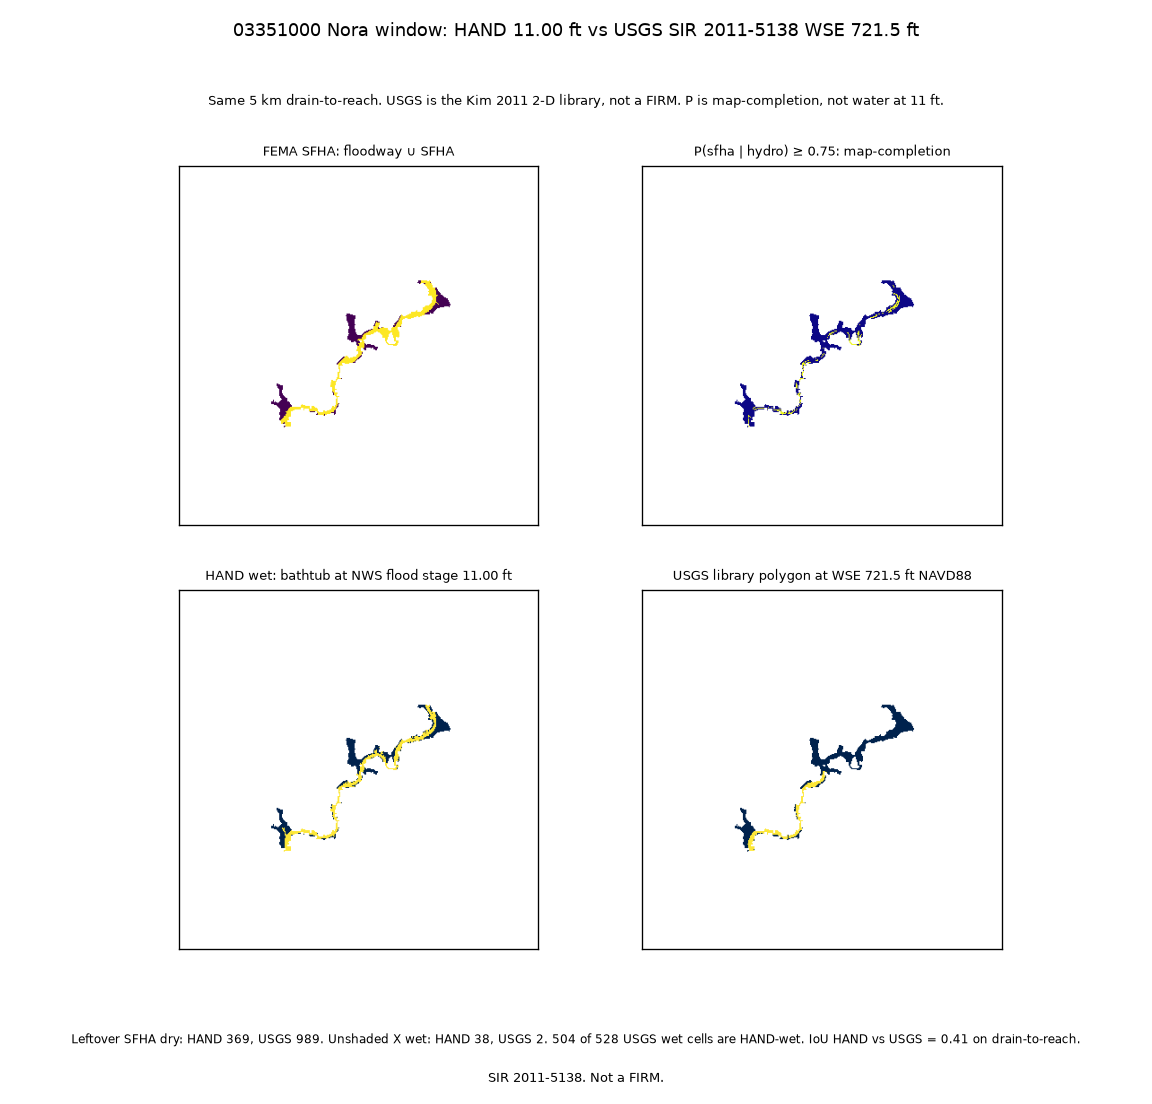
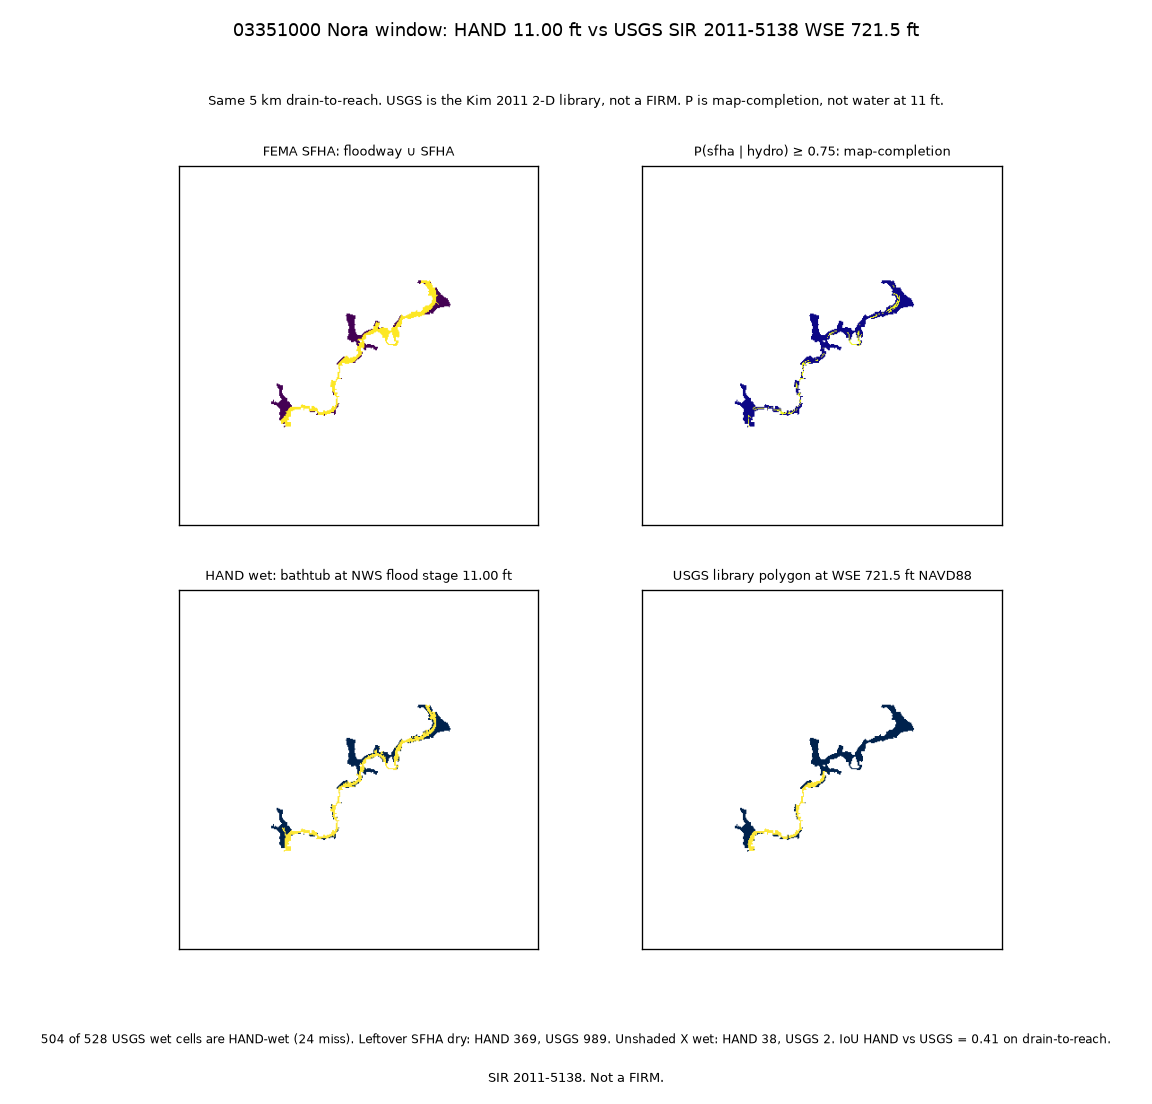
Lead with containment, not IoU.
504/528 flood (24 miss) and 618/619 crest (1 miss) are the neighborhood. IoU 0.41/0.33 stays in that same paragraph as the HAND superset and upstream-window reason.

Changed region(s): [[0.0312, 0.9239, 0.9688, 0.9547]]

diff --git a/src/fimcompare/compare.py b/src/fimcompare/compare.py
@@ -76,14 +76,15 @@ def overlap_table(
 
 
 def leftover_sentence(table: dict) -> str:
-    """Leftover SFHA, extra unshaded X, and USGS-in-HAND containment."""
+    """Containment first, then leftover SFHA / extra X, then IoU."""
     usgs_n = int(table["n_usgs_wet"])
     both = int(table["n_hand_and_usgs"])
+    miss = usgs_n - both
     return (
+        f"{both} of {usgs_n} USGS wet cells are HAND-wet ({miss} miss). "
         f"Leftover SFHA dry: HAND {int(table['n_sfha_dry_hand'])}, "
         f"USGS {int(table['n_sfha_dry_usgs'])}. "
         f"Unshaded X wet: HAND {int(table['n_hand_unshaded_x'])}, "
         f"USGS {int(table['n_usgs_unshaded_x'])}. "
-        f"{both} of {usgs_n} USGS wet cells are HAND-wet. "
         f"IoU HAND vs USGS = {float(table['iou_hand_usgs']):.2f} on drain-to-reach."
     )

diff --git a/tests/test_readme.py b/tests/test_readme.py
@@ -14,9 +14,14 @@ def test_readme_lead_and_claims() -> None:
     assert "21.18" in text
     assert "721.5" in text
     assert "731.5" in text
+    assert "504 of 528" in text
+    assert "618 of 619" in text
+    assert "24 miss" in text or "24 of 528" in text
+    assert text.find("504 of 528") < text.find("0.41")
     assert "indiana_flood_completion" in text
     assert "white_river_stage_inundation" in text
     assert "gitignored" in text
     assert scan_text(text) == []
     assert "—" not in text
     assert "What it is not" not in text
+    assert "covers the library" not in text.lower()

diff --git a/tests/test_compare.py b/tests/test_compare.py
@@ -25,9 +25,10 @@ def test_overlap_counts_and_refuses_huc_wide() -> None:
     assert int(t["n_usgs_wet"]) > 0
     assert int(t["n_hand_and_usgs"]) > 0
     s = leftover_sentence(t)
-    assert "Leftover SFHA" in s
-    assert "Unshaded X" in s
     assert "USGS wet cells are HAND-wet" in s
+    assert "miss" in s
+    assert s.index("USGS wet cells are HAND-wet") < s.index("Leftover SFHA")
+    assert "Unshaded X" in s
     assert "drain-to-reach" in s
     with pytest.raises(GateError):
         overlap_table(

diff --git a/README.md b/README.md
@@ -1,23 +1,26 @@
 # White River FIM compare (Nora)
 
-This tree puts four layers on the same 5 km White River window at USGS **03351000** / NWS **NORI3** (Nora, IN). FEMA SFHA and calibrated `P(sfha | hydro) ≥ 0.75` come from the map-completion sibling. HAND wet masks at **11.00 ft** and **21.18 ft** come from the Nora stage tree. The USGS layer is the Kim 2011 2-D library (SIR **2011-5138**), served as NWS partner FIM polygons at WSE **721.5 ft** and **731.5 ft** NAVD88, the published surfaces nearest those HAND stages.
+At flood stage, **504 of 528** USGS library-wet cells on this window are already HAND-wet (**24 miss**). At the 21.18 ft crest, **618 of 619** (**1 miss**). That is the same neighborhood. IoU 0.41 / 0.33 is what you get when HAND is a superset and the Nora window still includes upstream cells the 2011 library never mapped.
 
-`P(sfha | hydro)` is a map-completion layer, not water at 11 ft and not water at 21.18 ft. The HAND mask is a 30 m bathtub. The USGS polygon is a calibrated FaSTMECH extent, not a FIRM.
+USGS wet is 528 / 619 against HAND 1197 / 1876. Leftover SFHA stays dry on USGS (989 / 916). HAND fills leftover SFHA (dry 369 to 50) and extra unshaded X (38 to 338). USGS barely touches Zone X (2 to 15). The library is the tight 2-D map on this clip.
 
-NWS partner FIM uses zero datum 710.52 ft NAVD88. Nora uses 710.51. HAND 11.00 ft is WSE 721.51; the library surface is 721.5 (gap 0.01 ft). HAND 21.18 ft is WSE 731.69; the library surface is 731.5 (gap 0.19 ft). Scores are the Nora drain-to-reach window only. The USGS study starts at the gage and runs about 11 miles downstream toward the Indianapolis Museum of Art; the Nora window also includes 5 km upstream, so HAND is a superset.
+Four layers, one 5 km window at USGS **03351000** / NWS **NORI3**. FEMA SFHA and calibrated `P(sfha | hydro) ≥ 0.75` from the map-completion sibling. HAND wet at **11.00 ft** and **21.18 ft** from the Nora stage tree. USGS is the Kim 2011 FaSTMECH library (SIR **2011-5138**), NWS partner FIM polygons at WSE **721.5 ft** and **731.5 ft** NAVD88, nearest published surfaces to those HAND stages.
+
+`P(sfha | hydro)` is a map-completion layer, not water at 11 ft and not water at 21.18 ft. The HAND mask is a 30 m bathtub. The USGS polygon is not a FIRM.
+
+NWS 710.52 vs Nora 710.51 is noise. Scores are drain-to-reach only. Siblings frozen. No interpolated USGS surface. No downtown Indianapolis library. Same window as https://github.com/martialsystems/white_river_stage_inundation.
 
 | Quantity | Flood 11.00 ft / USGS 721.5 | Crest 21.18 ft / USGS 731.5 |
 |----------|----------------------------:|----------------------------:|
+| USGS wet also HAND | 504 of 528 | 618 of 619 |
+| USGS wet not HAND (miss) | 24 | 1 |
 | HAND wet | 1197 | 1876 |
 | USGS wet | 528 | 619 |
-| USGS wet also HAND | 504 of 528 | 618 of 619 |
 | IoU HAND vs USGS | 0.41 | 0.33 |
 | SFHA dry on HAND | 369 | 50 |
 | SFHA dry on USGS | 989 | 916 |
 | Unshaded X wet HAND | 38 | 338 |
 | Unshaded X wet USGS | 2 | 15 |
-
-IoU is on drain-to-reach cells only. Same window as https://github.com/martialsystems/white_river_stage_inundation.
 
 ![Figure 1. Flood stage vs USGS WSE 721.5](logs/nora_live/four_wet.png)
 
@@ -26,14 +29,15 @@ Figure 1. Four layers at NWS flood stage 11.00 ft and the nearest published USGS
 - SFHA: mapped floodway ∪ SFHA on the window.
 - P ≥ 0.75: sibling map-completion, not water at 11 ft.
 - HAND wet: bathtub at 11.00 ft.
-- USGS: SIR 2011-5138 polygon at WSE 721.5 ft.
+- USGS: SIR 2011-5138 polygon at WSE 721.5 ft. 504 of 528 USGS-wet cells are HAND-wet (24 miss).
 
 ![Figure 2. Crest vs USGS WSE 731.5](logs/nora_live/four_wet_crest_2026-08-15.png)
 
 Figure 2. Same four layers at the 2026-08-15 crest 21.18 ft and USGS WSE 731.5 ft.
 
-- Extra HAND wet filled leftover SFHA (dry 369 to 50) and lit unshaded X (38 to 338).
-- USGS stays tight: 618 of 619 library-wet cells are already HAND-wet. IoU 0.41 to 0.33 because HAND grows faster than the library.
+- Containment: 618 of 619 USGS-wet cells are HAND-wet (1 miss). Flood-stage miss is 24 of 528.
+- HAND fills leftover SFHA (dry 369 to 50) and extra unshaded X (38 to 338). USGS Zone X is 2 to 15.
+- IoU 0.41 / 0.33 is in the lead paragraph with the superset and upstream-window reason.
 
 Live rasters, the NWS shapefile zip, and `*.tif` stay gitignored; `logs/nora_live/four_wet.png` and `logs/nora_live/four_wet_crest_2026-08-15.png` are the committed figures.
 
@@ -45,8 +49,8 @@ Related trees:
 Limitations:
 
 - 30 m HAND vs a 10 m FaSTMECH polygon, clipped to the Nora window, not the full 11-mile library reach.
-- 0.01 ft and 0.19 ft WSE gaps; no interpolated USGS surface.
-- Crest 21.18 ft is NWS provisional.
+- Crest 21.18 ft is NWS provisional; nearest published library WSE is 731.5 ft.
+- IoU is on the full Nora drain-to-reach window, not drain-to-reach intersect library-domain. Containment is the neighborhood number.
 - One gage, two library surfaces. No third model, no whole HUC, no climate.
 
 | File | Role |

diff --git a/METHODOLOGY.md b/METHODOLOGY.md
@@ -6,7 +6,7 @@ Locked contract for `white_river_fim_compare`. Freeze both siblings. Do not reco
 
 USGS 03351000 White River near Nora, IN (NWS NORI3). The membership test is the Nora drain-to-reach mask from `white_river_stage_inundation` (`wet.tif` cells that are not nodata). That is a 5 km White River mainstem plus 1 km margin, EPSG:5070, 30 m, 401 by 401.
 
-The USGS library covers about 11 miles from the Nora gage downstream toward the Indianapolis Museum of Art. This tree clips the library polygon to the Nora window. Scores are that clip only.
+The USGS library runs about 11 miles from the Nora gage downstream toward the Indianapolis Museum of Art. This tree clips the library polygon to the Nora window. Scores are that clip only. The Nora window also includes 5 km upstream of the gage.
 
 ## Four layers
 
@@ -26,7 +26,7 @@ Pinned pairs:
 | 11.00 ft | 721.51 | 721.5 | 0.01 ft |
 | 21.18 ft | 731.69 | 731.5 | 0.19 ft |
 
-NWS zeroDatum is 710.52 ft. Nora datum is 710.51 ft. Caption that 0.01 ft offset.
+NWS zeroDatum is 710.52 ft. Nora datum is 710.51 ft. That 0.01 ft offset is noise.
 
 GIS source: `https://water.noaa.gov/resources/downloads/fim/ind/nori3/shapefile/nori3_shapefiles.zip`. Metadata cites SIR 2011-5138 and USGS Indiana Water Science Center. Partner FIM is the hydraulic library, not NWM HAND.
 
@@ -36,7 +36,7 @@ Nora wet iff D8 drain-to-reach and finite HAND and `HAND < Δ`, `Δ = WSE − h_
 
 ## Overlap
 
-Universe: drain-to-reach. HAND-nodata stays out. Headline IoU is HAND vs USGS. Also leftover SFHA (mapped SFHA, dry on that layer) and extra unshaded Zone X (wet on that layer). Descriptive IoU of SFHA and of P ≥ 0.75 against each inundation layer. No PR-AUC. No retraining.
+Universe: drain-to-reach. HAND-nodata stays out. Headline is containment: N of M USGS-wet cells that are also HAND-wet, plus the miss count. IoU stays in the same sentence as the reason it is low (HAND is a superset; the window includes upstream cells the 2011 library never mapped). Also leftover SFHA (mapped SFHA, dry on that layer) and extra unshaded Zone X. USGS wet vs HAND wet is the tight-map check. Descriptive IoU of SFHA and of P ≥ 0.75 against each inundation layer. No PR-AUC. No retraining. No drain-to-reach intersect library-domain IoU in v1.
 
 ## Stages
 
@@ -49,7 +49,7 @@ Do not skip. A refuses a missing library polygon. C refuses a HUC-wide mask.
 
 ## Claims
 
-Allowed: HAND bathtub vs USGS SIR 2011-5138 on the Nora window; nearest published WSE 721.5 / 731.5; mapped SFHA; calibrated P as a map layer; IoU / leftover-SFHA / extra unshaded X on drain-to-reach.
+Allowed: HAND bathtub vs USGS SIR 2011-5138 on the Nora window; nearest published WSE 721.5 / 731.5; mapped SFHA; calibrated P as a map layer; containment N of M USGS-wet also HAND-wet plus miss; leftover-SFHA / extra unshaded X; IoU on drain-to-reach in the same paragraph as the superset / upstream-window reason.
 
 Banned: 100-year exceedance; P as a forecast; HAND as a FIRM; USGS library as a FIRM; site-level flood risk; casualty / climate / population-at-risk; training on FEMA; whole-HUC paint; downtown Indianapolis library.
 

diff --git a/AGENTS.md b/AGENTS.md
@@ -4,7 +4,7 @@ Public GitHub. MIT on this snapshot. Geography is USGS 03351000 Nora on HUC-8 05
 
 ## Product
 
-Four layers on the Nora drain-to-reach window: FEMA SFHA, P ≥ 0.75, HAND wet at 11.00 ft and 21.18 ft, USGS SIR 2011-5138 polygon at WSE 721.5 and 731.5. IoU is drain-to-reach only. Combined interview sheet is not in git.
+Four layers on the Nora drain-to-reach window: FEMA SFHA, P ≥ 0.75, HAND wet at 11.00 ft and 21.18 ft, USGS SIR 2011-5138 polygon at WSE 721.5 and 731.5. Lead with containment (N of M USGS-wet also HAND-wet, plus miss). IoU stays in that same paragraph as the superset / upstream-window reason. Combined interview sheet is not in git. WTP/substations is a different folder.
 
 ## Stages
 
